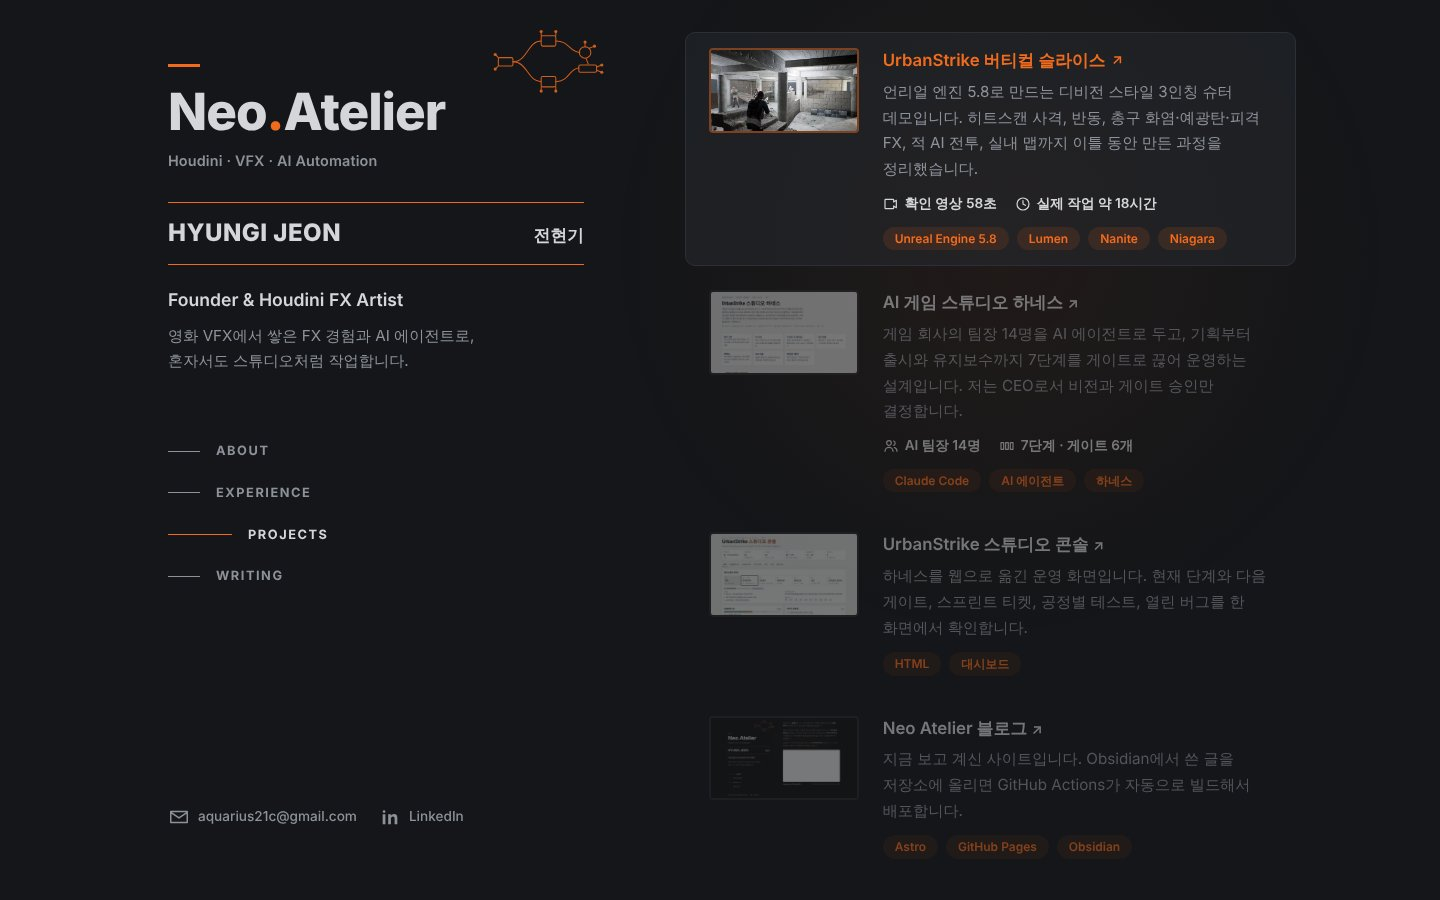
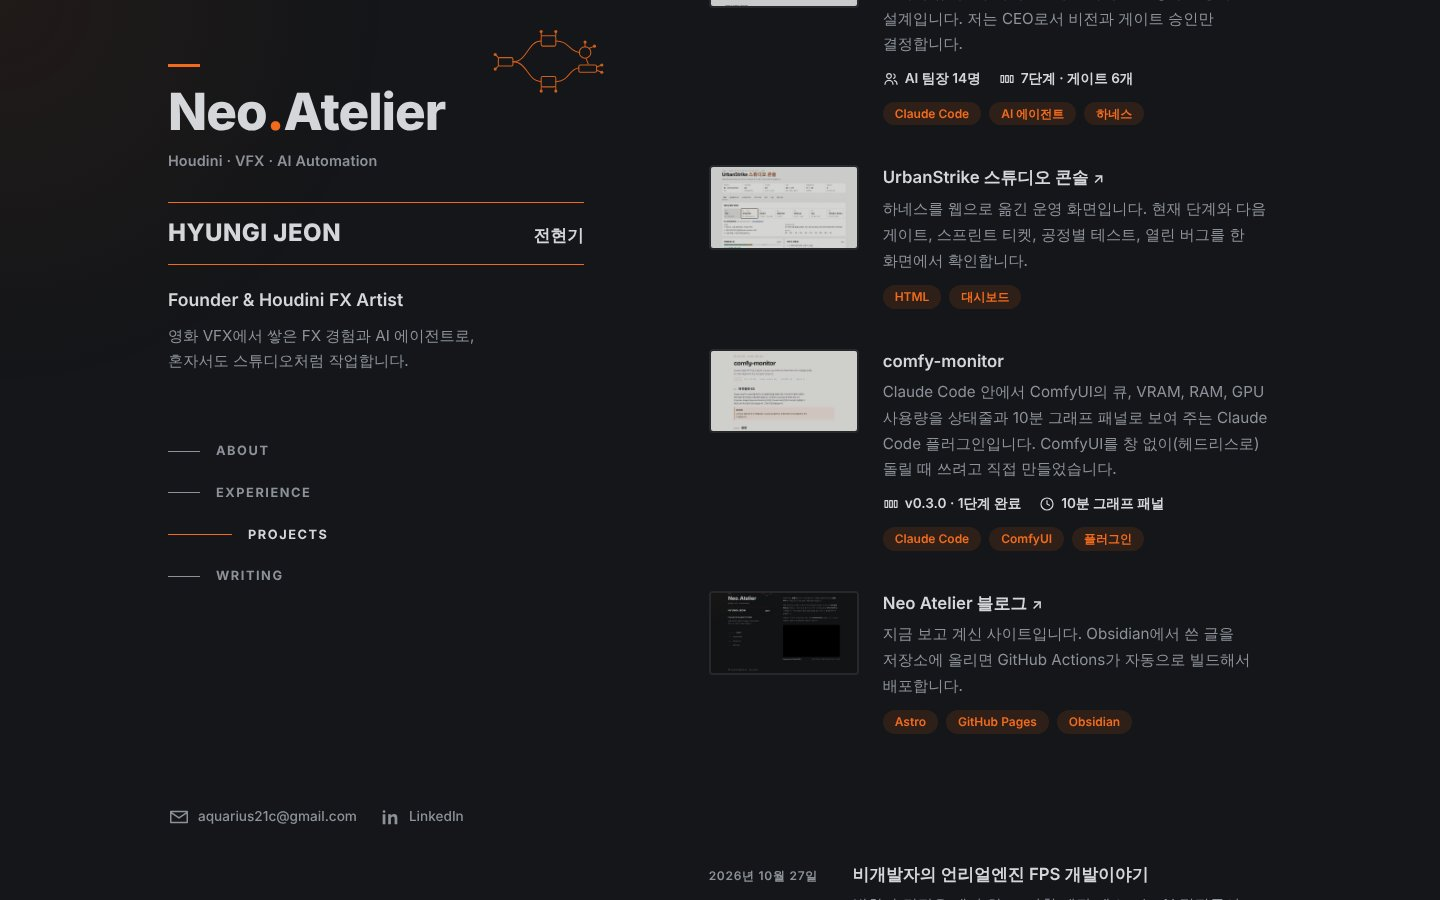
Use the comfy-monitor doc for its card text and thumbnail
Claude-Session: https://claude.ai/code/session_01ADUa9izcwCMGkJeSoDPczs

diff --git a/src/data/profile.ts b/src/data/profile.ts
@@ -81,12 +81,15 @@ export const projects = [
   {
     title: 'comfy-monitor',
     summary:
-      'ComfyUI의 대기열, VRAM, GPU 사용량을 Claude Code 상태 표시줄과 그래프 패널로 보여주는 Claude Code 플러그인입니다. 영상 생성 작업을 돌리면서 작업 화면을 떠나지 않고 상태를 확인할 수 있습니다.',
+      'Claude Code 안에서 ComfyUI의 큐, VRAM, RAM, GPU 사용량을 상태줄과 10분 그래프 패널로 보여 주는 Claude Code 플러그인입니다. ComfyUI를 창 없이(헤드리스로) 돌릴 때 쓰려고 직접 만들었습니다.',
     image: 'projects/comfy-monitor.jpg',
-    imageAlt: 'comfy-monitor 플러그인 소개 이미지',
+    imageAlt: 'comfy-monitor 소개 문서 첫 화면',
     link: 'docs/comfy-monitor.html',
-    stats: [],
-    tags: ['Claude Code', 'ComfyUI', 'Node.js', '플러그인'],
+    stats: [
+      { icon: 'stage', label: 'v0.3.0 · 1단계 완료' },
+      { icon: 'clock', label: '10분 그래프 패널' },
+    ],
+    tags: ['Claude Code', 'ComfyUI', '플러그인'],
   },
   {
     title: 'Neo Atelier 블로그',
